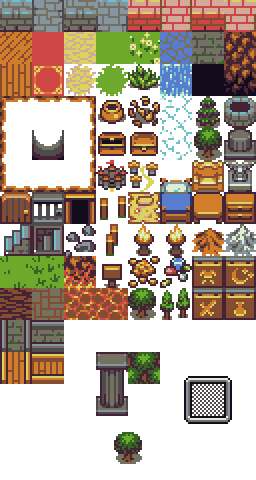
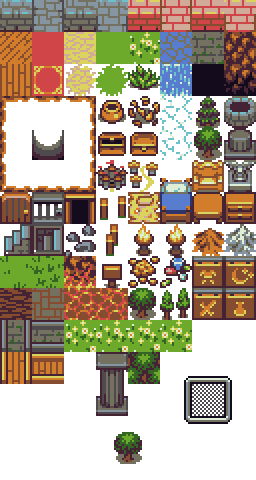
Sprites are added!

Changed region(s): [[0.25, 0.6562, 0.75, 0.75]]

diff --git a/www/game.js b/www/game.js
@@ -3,7 +3,7 @@ var game = {};  //The main game object!
 
 var images = {}
 var entities = [];
-
+var sprites = {};
 var keyboard = [];
 
 function begin() {
@@ -21,11 +21,29 @@ function begin() {
 	images.tiles = PreloadImage("assets/tiles.png");
 	images.characters = PreloadImage("assets/characters.png");
 	PreloadImage.wait(function() {
-		begin_loadMap();	//Wait for images to load, then move to the next step
+		begin_loadSprites();	//Wait for images to load, then move to the next step
 	});
 	
     
 	
+}
+
+function begin_loadSprites() {
+	sprites.tiles = [];
+	sprites.tiles[0] = new Sprite(images.tiles,32,32);
+	sprites.tiles[0].addFrame(new Frame(0,0,1));
+	
+	sprites.tiles[1] = new Sprite(images.tiles,32,32);
+	sprites.tiles[1].addFrame(new Frame(64,320,15));
+	sprites.tiles[1].addFrame(new Frame(96,320,15));
+	sprites.tiles[1].addFrame(new Frame(128,320,15));
+	sprites.tiles[1].addFrame(new Frame(160,320,15));
+	
+	sprites.tiles[2] = new Sprite(images.tiles,32,32);
+	sprites.tiles[2].addFrame(new Frame(96,32,1));
+	
+	
+	begin_loadMap();
 }
 
 function begin_loadMap() {
@@ -92,7 +110,14 @@ function communicationLooper() {
 
 function renderLooper() {
 	render();
+	updateSprites();
 	setTimeout(function() {renderLooper()},30);
+}
+
+function updateSprites() {
+	for (var key in sprites.tiles) {
+		sprites.tiles[key].nextFrame();
+	}
 }
 
 function render() {
@@ -108,14 +133,16 @@ function render() {
 	
 	//Offset everything by the player's position
 	var player = entities[game.pid];
-	var offsetX = tween(player.oldX,player.x,player.tween) - 7;
-	var offsetY = tween(player.oldY,player.y,player.tween) - 7;
+	var offsetX = Math.floor((tween(player.oldX,player.x,player.tween) - 7) * 32);
+	var offsetY = Math.floor((tween(player.oldY,player.y,player.tween) - 7) * 32);
 	
 	
 	context.clearRect(0,0,game.width,game.height);
 	for (var r = 0; r < game.map.rows; r++) {
 		for (var c = 0; c < game.map.cols; c++) {
-			context.drawImage(images.tiles, 0,32*game.map.tile[r][c],32,32,32 * (c-offsetX), 32 * (r-offsetY),32,32);		
+			//context.drawImage(images.tiles, 0,32*game.map.tile[r][c],32,32,32 * (c-offsetX), 32 * (r-offsetY),32,32);		
+			//console.log(sprites.tiles[game.map.tile[r][c]].__frames[0].y);
+			sprites.tiles[game.map.tile[r][c]].draw(context,(32 * c) - offsetX,(32 * r)-offsetY);
 		}
 	}
 	
@@ -131,7 +158,7 @@ function render() {
 		var srcY = Math.floor(character / 4);
 		srcY *= (32 * 4);
 		
-		context.drawImage(images.characters, srcX,srcY,32,32,32 * (x-offsetX), 32 * (y-offsetY),32,32);	
+		context.drawImage(images.characters, srcX,srcY,32,32,(32 * x)-offsetX, (32 * y)-offsetY,32,32);	
 		e.tween+=0.2;
 		if (e.tween > 1) {e.tween = 1;}
 	}

diff --git a/www/sprites.js b/www/sprites.js
@@ -1,0 +1,49 @@
+Sprite = function(image, width, height) {
+		this.__image = image;
+		this.__width = width;
+		this.__height = height;
+		this.__frames = [];
+}
+
+Sprite.prototype = {
+	__image: null,
+	__width: 0,
+	__height: 0,
+	__frames: null,
+	__frame: 0,
+	__subFrame: 0,
+	draw: function(context, x, y) {
+		var f = this.__frames[this.__frame];
+		context.drawImage(this.__image,f.x,f.y,this.__width,this.__height,x,y,this.__width,this.__height);
+	},
+	nextFrame: function() {
+		this.__subFrame++;
+		if (this.__subFrame > this.__frames[this.__frame].duration) {
+			this.__subFrame = 0;
+			this.__frame++;
+			if(this.__frame >= this.__frames.length) {
+				this.__frame = 0;
+			}
+		}
+	},
+	addFrame: function(newFrame) {
+		console.log("Adding new frame with y " + newFrame.y);
+		this.__frames.push(newFrame);
+		for (var s in this.__frames) {
+			console.log("---" + s);
+		}
+		console.log("pos 0 = " + this.__frames[0].y)
+	},
+}
+
+Frame = function(x,y,duration) {
+	this.x = x;
+	this.y = y;
+	this.duration = duration;
+}
+
+Frame.prototype = {
+	x: 0,
+	y: 0,
+	duration: 0,
+}

diff --git a/www/game.html b/www/game.html
@@ -5,6 +5,7 @@
 
 <script src="jquery.min.js"></script>
 <script src="util.js"></script>
+<script src="sprites.js"></script>
 <script src="game.js"></script>
   
 <body onload="begin();" style='background-color: #444'>
